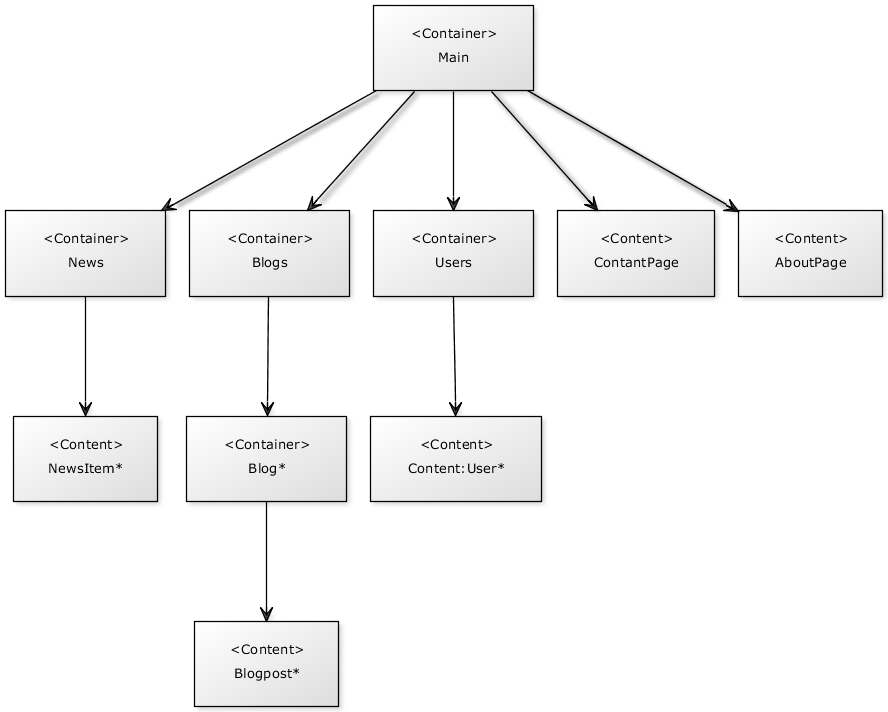
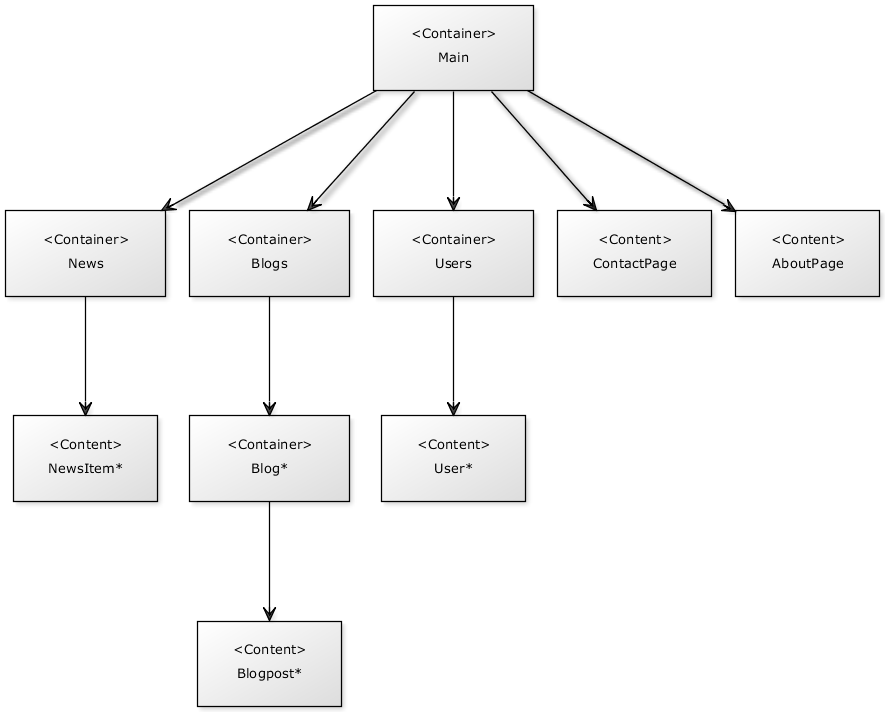
class diagram updated

diff --git a/README.rst b/README.rst
@@ -172,9 +172,9 @@ Mitä olisi pitänyt tehdä toisin
 [<Container>;Main]->[<Container>;Blogs]
 [<Container>;Main]->[<Container>;News]
 [<Container>;Main]->[<Content>;AboutPage]
-[<Container>;Main]->[<Content>;ContantPage]
+[<Container>;Main]->[<Content>;ContactPage]
 
-[<Container>;Users]->[<Content>;Content:User*]
+[<Container>;Users]->[<Content>;User*]
 [<Container>;Blogs]->[<Container>;Blog*]
 [<Container>;News]->[<Content>;NewsItem*]
 
